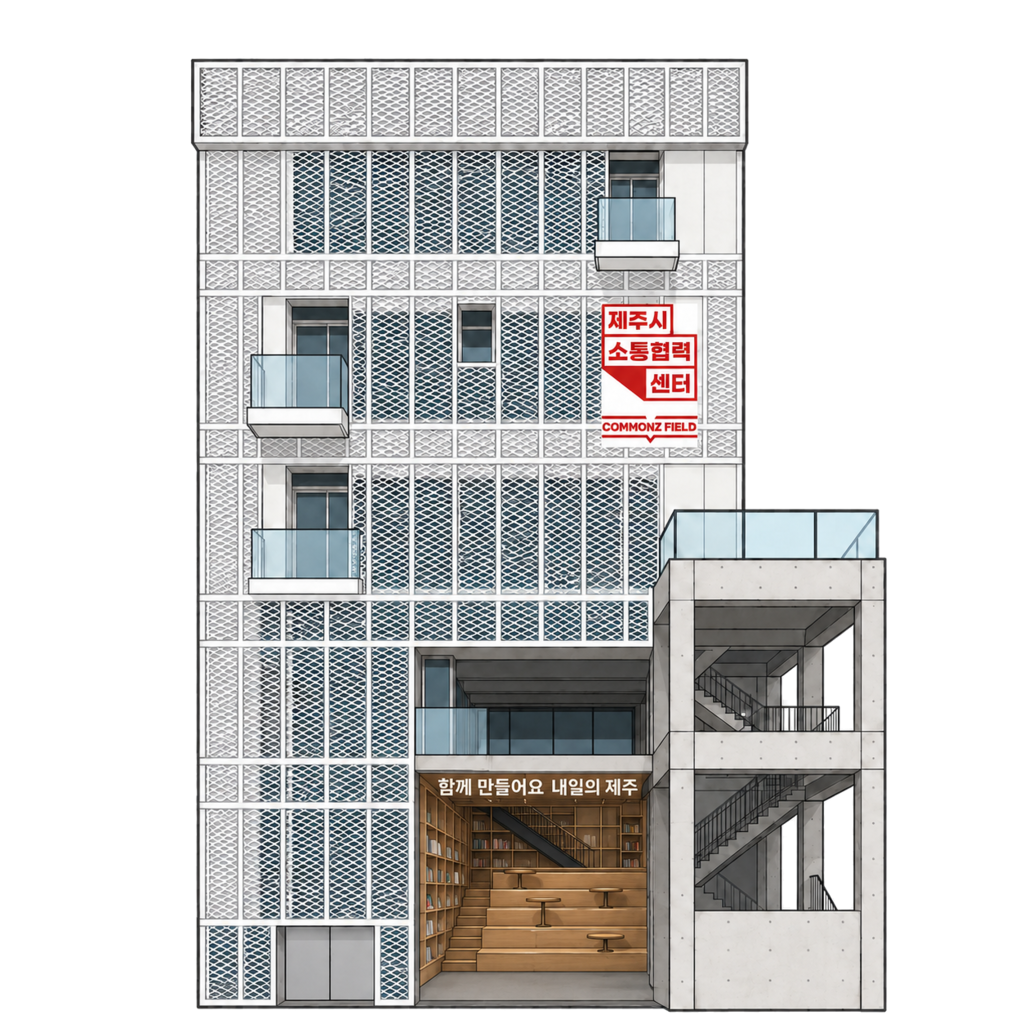
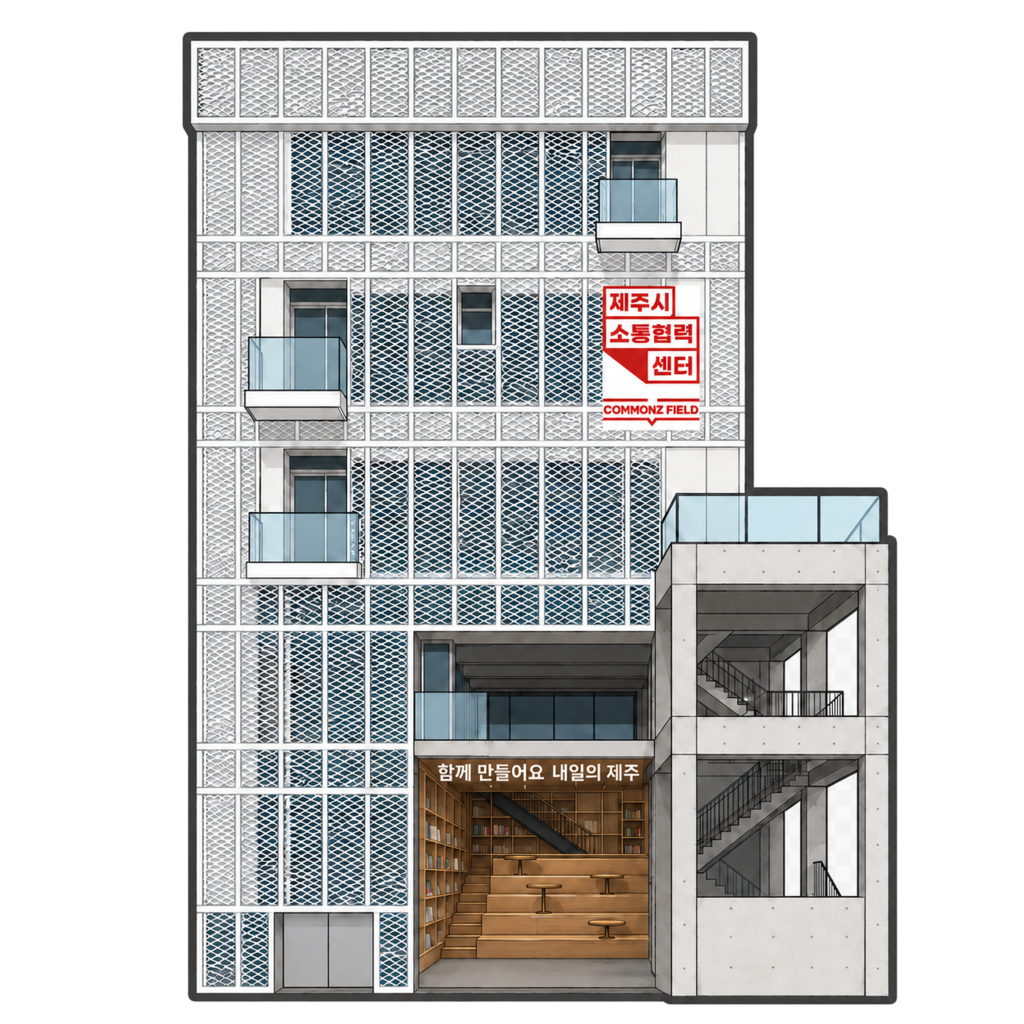
Update communication center final landmark

diff --git a/app/page.tsx b/app/page.tsx
@@ -66,7 +66,7 @@ const MAIN_HUB_LANDMARK_ASSET_ID = "jeju-communication-center-a02";
 const LANDMARK_RESOURCE_SIZE = 6.2;
 const LANDMARK_LABEL_GAP = 8;
 const LEGACY_MAIN_HUB_MEMO = "워크케이션 메인 거점 · A-02 우측계단 전용 랜드마크";
-const STANDARD_MAIN_HUB_MEMO = "워크케이션 메인 거점 · A-02 우측계단 · 표준 랜드마크 이미지·라벨 처리";
+const STANDARD_MAIN_HUB_MEMO = "워크케이션 메인 거점 · A-02 외곽선보강 최종검수안 · 표준 랜드마크 이미지·라벨 처리";
 const SUPERSEDED_SANJICHEON_ASSET_IDS = new Set(["sanjicheon-01", "sanjicheon-02", "sanjicheon-03"]);
 const EXPORT_CANONICAL_WIDTH = 1180;
 const AUTOSAVE_KEY = "jeju-wondosim-map-review:autosave:v3";
@@ -928,7 +928,7 @@ const builtInLandmarkAssets: MapAsset[] = bundledLandmarkAssets.map((asset) => {
     address: location?.address ?? "",
     addressSourceUrl: location?.addressSourceUrl ?? "",
     sourceLabel: asset.id === MAIN_HUB_LANDMARK_ASSET_ID
-      ? `Google Drive A-02 검수 기준안 · 투명 배경 정리 · 1024px WebP 최적화 · ${asset.fileName}`
+      ? `Google Drive A-02 외곽선보강 최종검수안 · 투명 배경 정리 · 1024px WebP 최적화 · ${asset.fileName}`
       : `Google Drive 원본 · 1024px WebP 최적화 · ${asset.fileName}`,
     builtIn: true,
   };

diff --git a/app/landmark-assets/index.ts b/app/landmark-assets/index.ts
@@ -20,7 +20,7 @@ const asset = (id: string, name: string, placeName: string, sourceId: string, st
 });
 
 export const bundledLandmarkAssets: BundledLandmarkAsset[] = [
-  asset("jeju-communication-center-a02", "A-02 우측계단", "제주시소통협력센터", "1TCF2Y0UOlgAwNw1x-GBSaSdQ9D3_rNdL", "approved"),
+  asset("jeju-communication-center-a02", "A-02 외곽선보강 최종", "제주시소통협력센터", "1n1G-0HbAOv9FavuBo54SdxDZWY276b3j", "approved"),
   asset("jeju-art-platform-c01", "C-01", "제주아트플랫폼", "1wtaceoB3q7UL9KUfwkLu-6SjT52zLW-j", "approved"),
   asset("jeju-art-platform-a01", "A-01", "제주아트플랫폼", "15pl0qSHrJEMqcKHaR9lr9k0lA-BJKaJz"),
   asset("jeju-art-platform-a02", "A-02", "제주아트플랫폼", "1hUxtGB9PSRNjNMoAtHdEaEz4vJ2YWEp5"),
